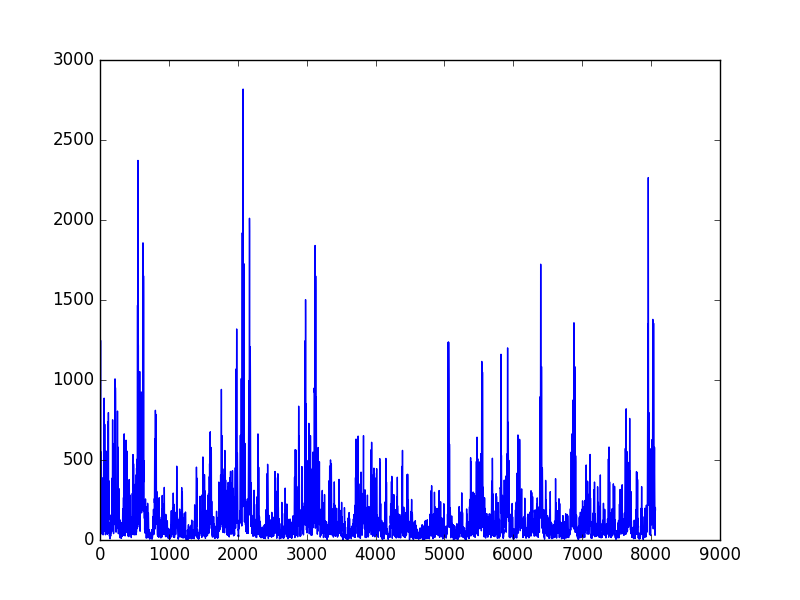
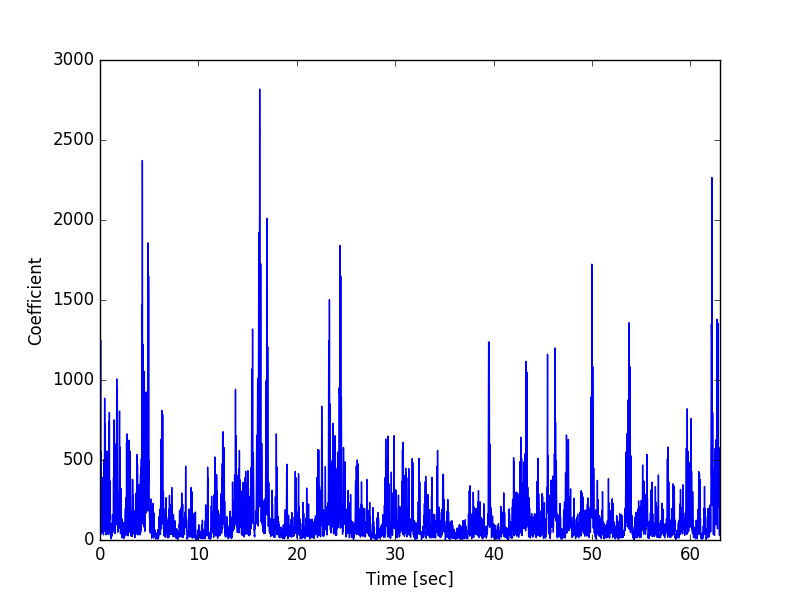
update coeff

Changed region(s): [[0.125, 0.27, 0.9375, 0.99], [0.0312, 0.42, 0.0625, 0.57]]

diff --git a/frequecy_feature_extraction.py b/frequecy_feature_extraction.py
@@ -51,10 +51,10 @@ class Frequency_Feature_Extraction(object):
                     _, maxfreq = self.clean_tranform(s_data[obs, channel, :])
                     channels_max_freq.append(maxfreq)
                 observation_freq = np.array(channels_max_freq)
-                print('observation_freq:{}'.format(observation_freq.shape))
+                # print('observation_freq:{}'.format(observation_freq.shape))
                 pca = PCAAnalysis()
                 pca_trans = pca.pca_components(observation_freq, n_components=3).transform(observation_freq)
-                print("pca_trans:{}".format(pca_trans.shape, pca_trans))
+                # print("pca_trans:{}{}".format(pca_trans.shape, pca_trans))
                 pca_trans = np.reshape(pca_trans, newshape=(self.channels * 3))
                 if subj == valid_idx:
                     valid_data.append(pca_trans)
@@ -123,8 +123,12 @@ class Frequency_Feature_Extraction(object):
         fig.savefig(name)
 
         plt.figure()
-        plt.plot(max_freq)
-        plt.savefig(name + 'max_freq')
+        plt.plot(np.arange(start=0, stop=63, step=1 / 128), max_freq)
+        plt.ylabel('Coefficient')
+        plt.xlabel('Time [sec]')
+        plt.xlim([0, 65])
+        plt.title(name + ' max coefficient')
+        plt.savefig(name + ' max coefficient')
 
     def clean_tranform(self, s_data_subject):
         wa = WaveletAnalysis(data=s_data_subject, wavelet=Ricker(), dt=1 / 128)
@@ -132,6 +136,7 @@ class Frequency_Feature_Extraction(object):
         return wa, max_freq
 
     def get_max_freq(self, ctwmatr):
+        # np.argmax(ctwmatr, axis=0)
         return np.max(ctwmatr, axis=0)
 
     def plot_spectrogram(self, trial):
